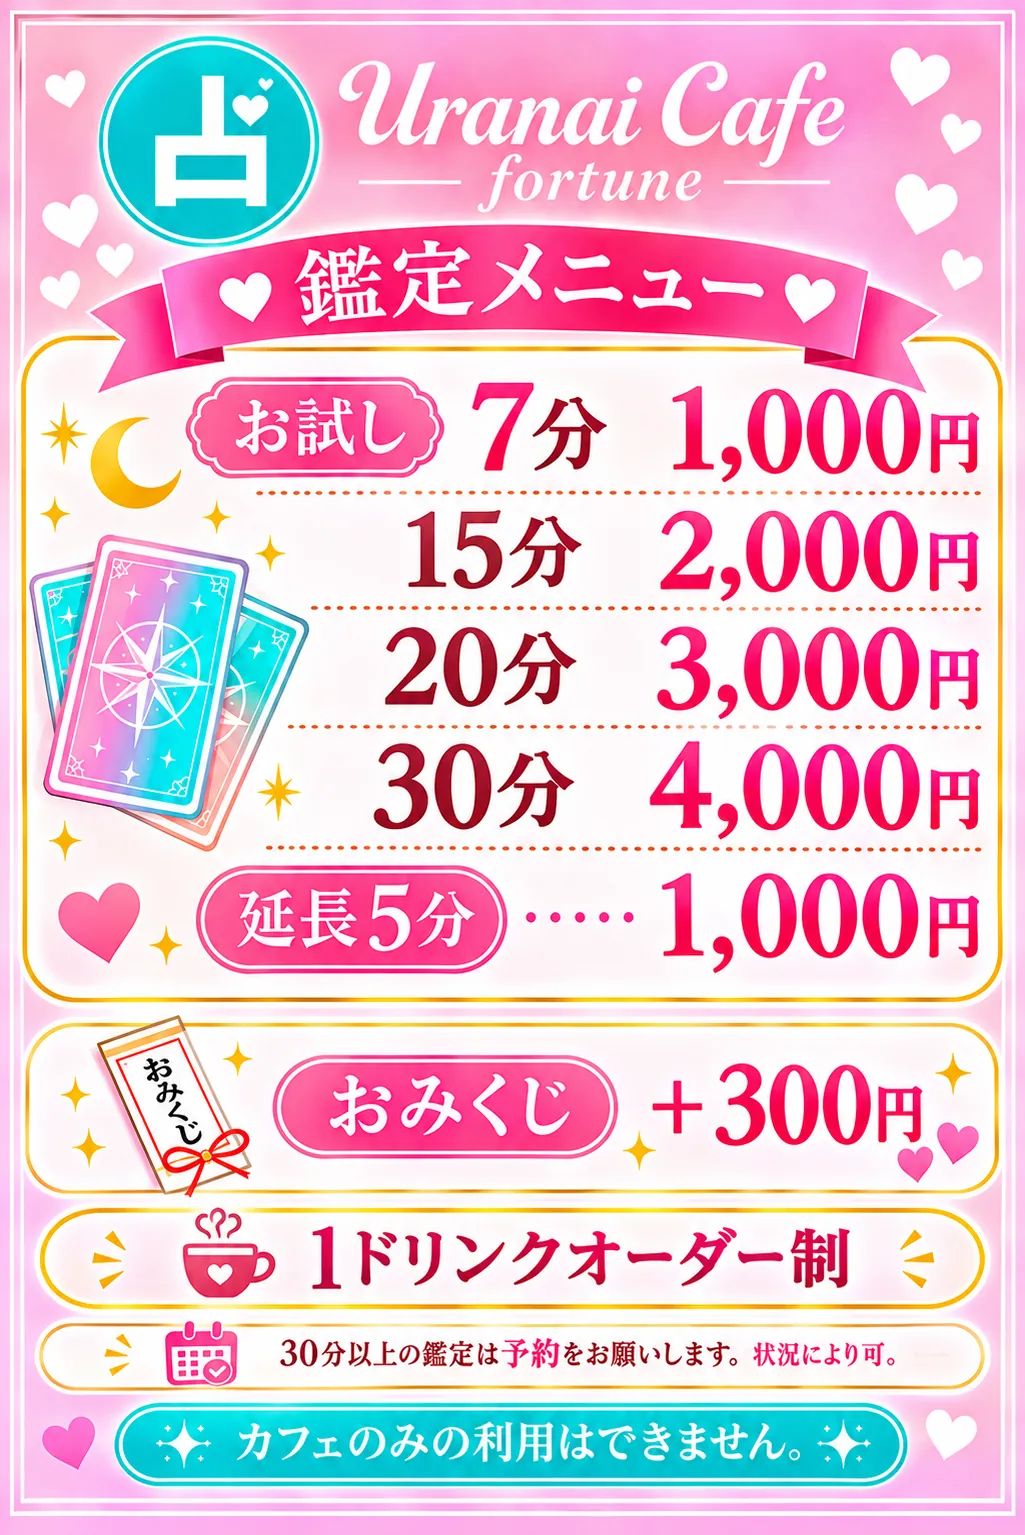
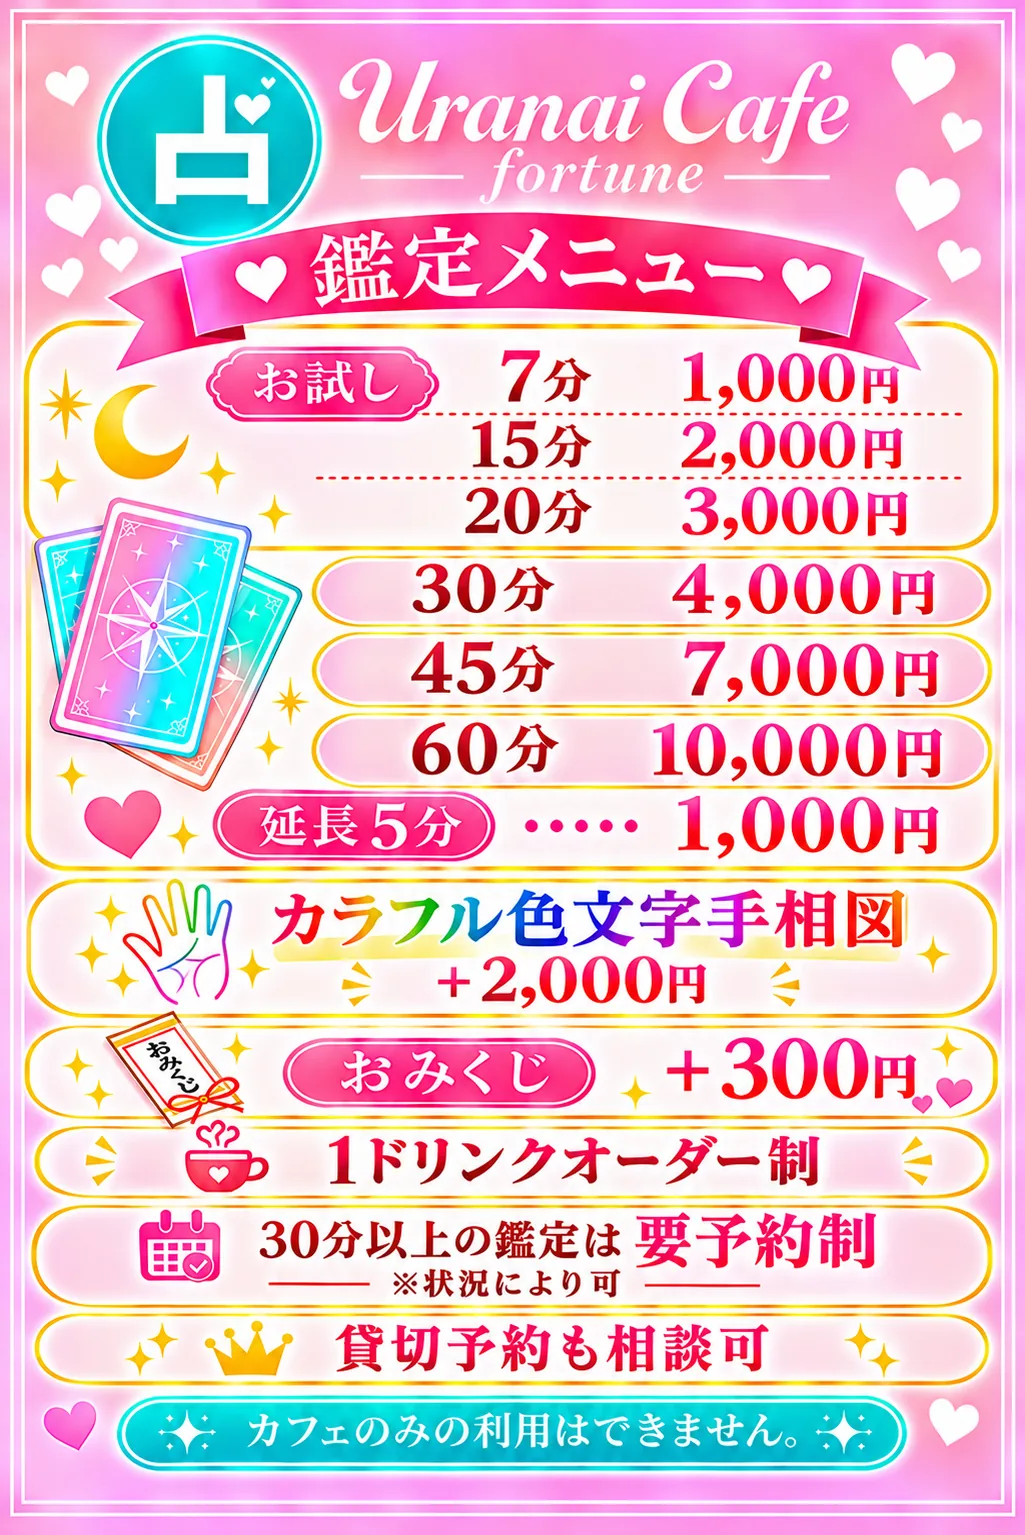
デモ版：占いカフェの料金表を新しいものに差し替え（小出さま依頼・Owner 承認）

diff --git a/p/akari-6c5a9d/cafe/index.html b/p/akari-6c5a9d/cafe/index.html
@@ -419,7 +419,7 @@ section.s:not(.vis) .fl svg,section.s:not(.vis) .btn:after{animation-play-state:
 <section class="s fee-sec" id="fee">
 <div class="wrap">
 <h2 class="ttl"><svg aria-hidden="true"><use href="#star"/></svg>鑑定メニュー</h2>
-<figure class="fee-img rv"><img src="img/fee-menu.webp" alt="鑑定メニュー。お試し7分1,000円、15分2,000円、20分3,000円、30分4,000円、延長5分1,000円、おみくじ+300円。1ドリンクオーダー制。30分以上の鑑定は予約をお願いします。状況により可。カフェのみの利用はできません。" width="1025" height="1535" loading="lazy"></figure>
+<figure class="fee-img rv"><img src="img/fee-menu.webp" alt="鑑定メニュー。お試し7分1,000円、15分2,000円、20分3,000円、30分4,000円、45分7,000円、60分10,000円、延長5分1,000円。カラフル色文字手相図+2,000円、おみくじ+300円。1ドリンクオーダー制。30分以上の鑑定は要予約制（状況により可）。貸切予約も相談可。カフェのみの利用はできません。" width="1025" height="1535" loading="lazy"></figure>
 </div>
 </section>
 
